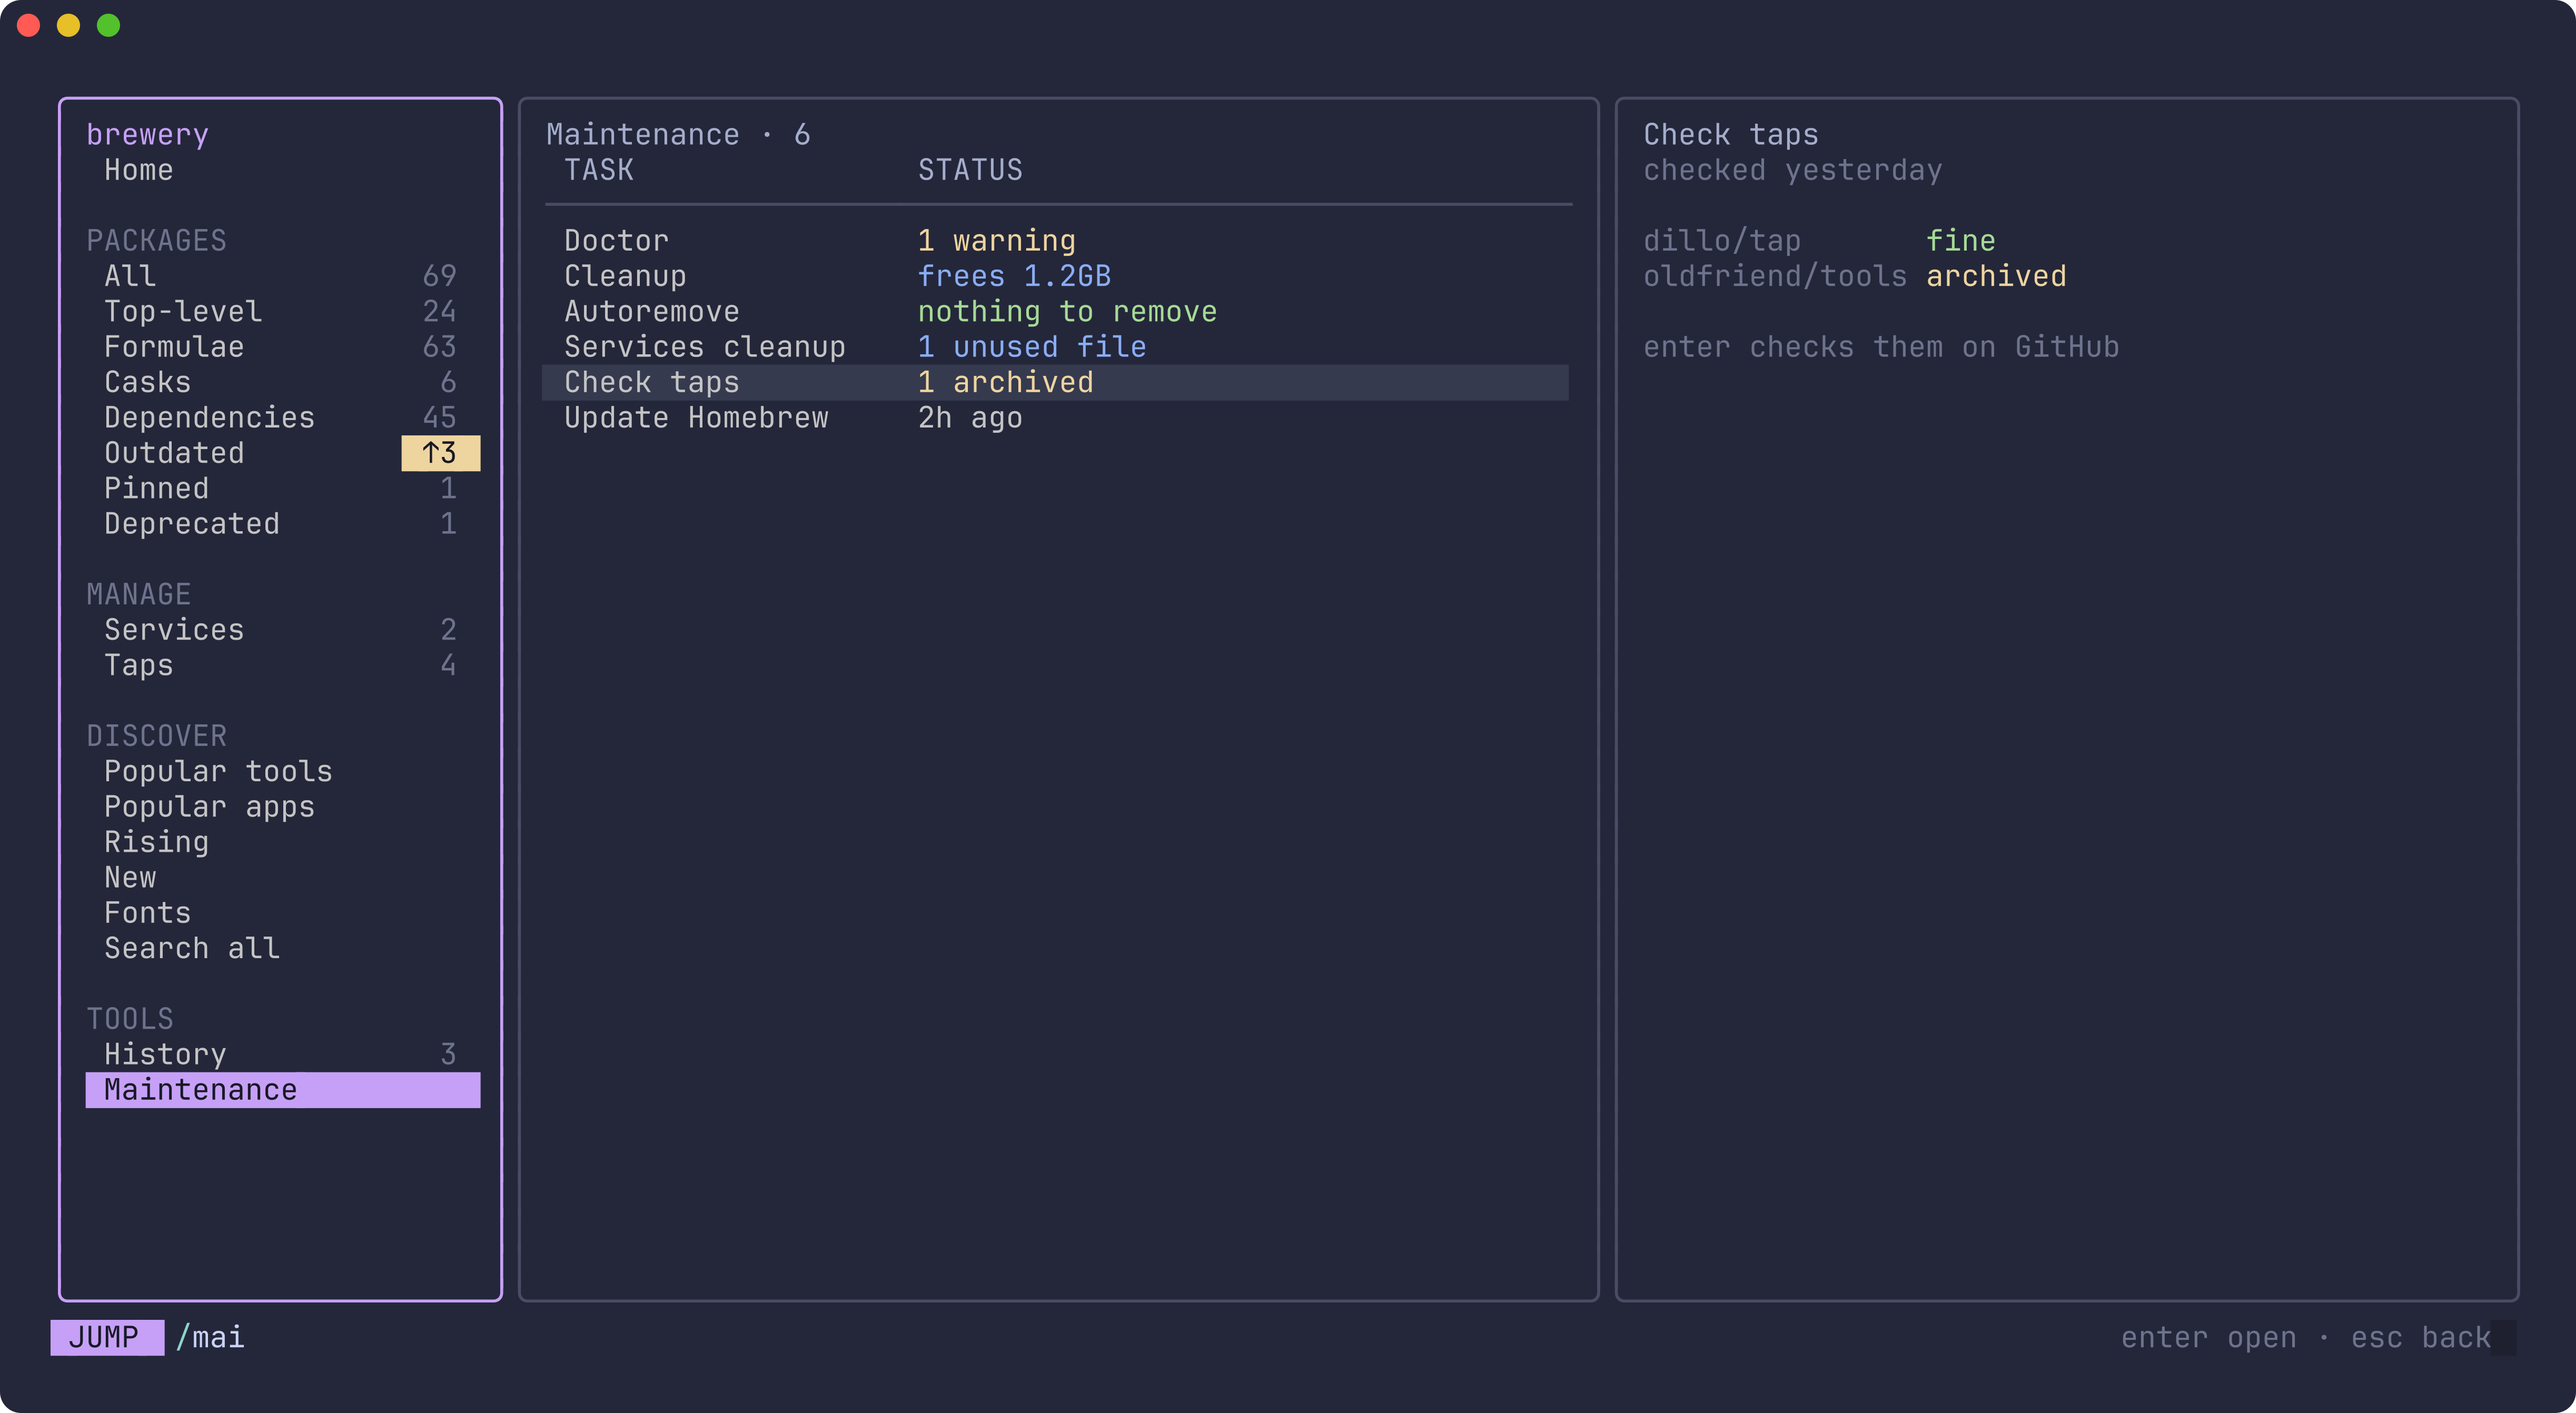
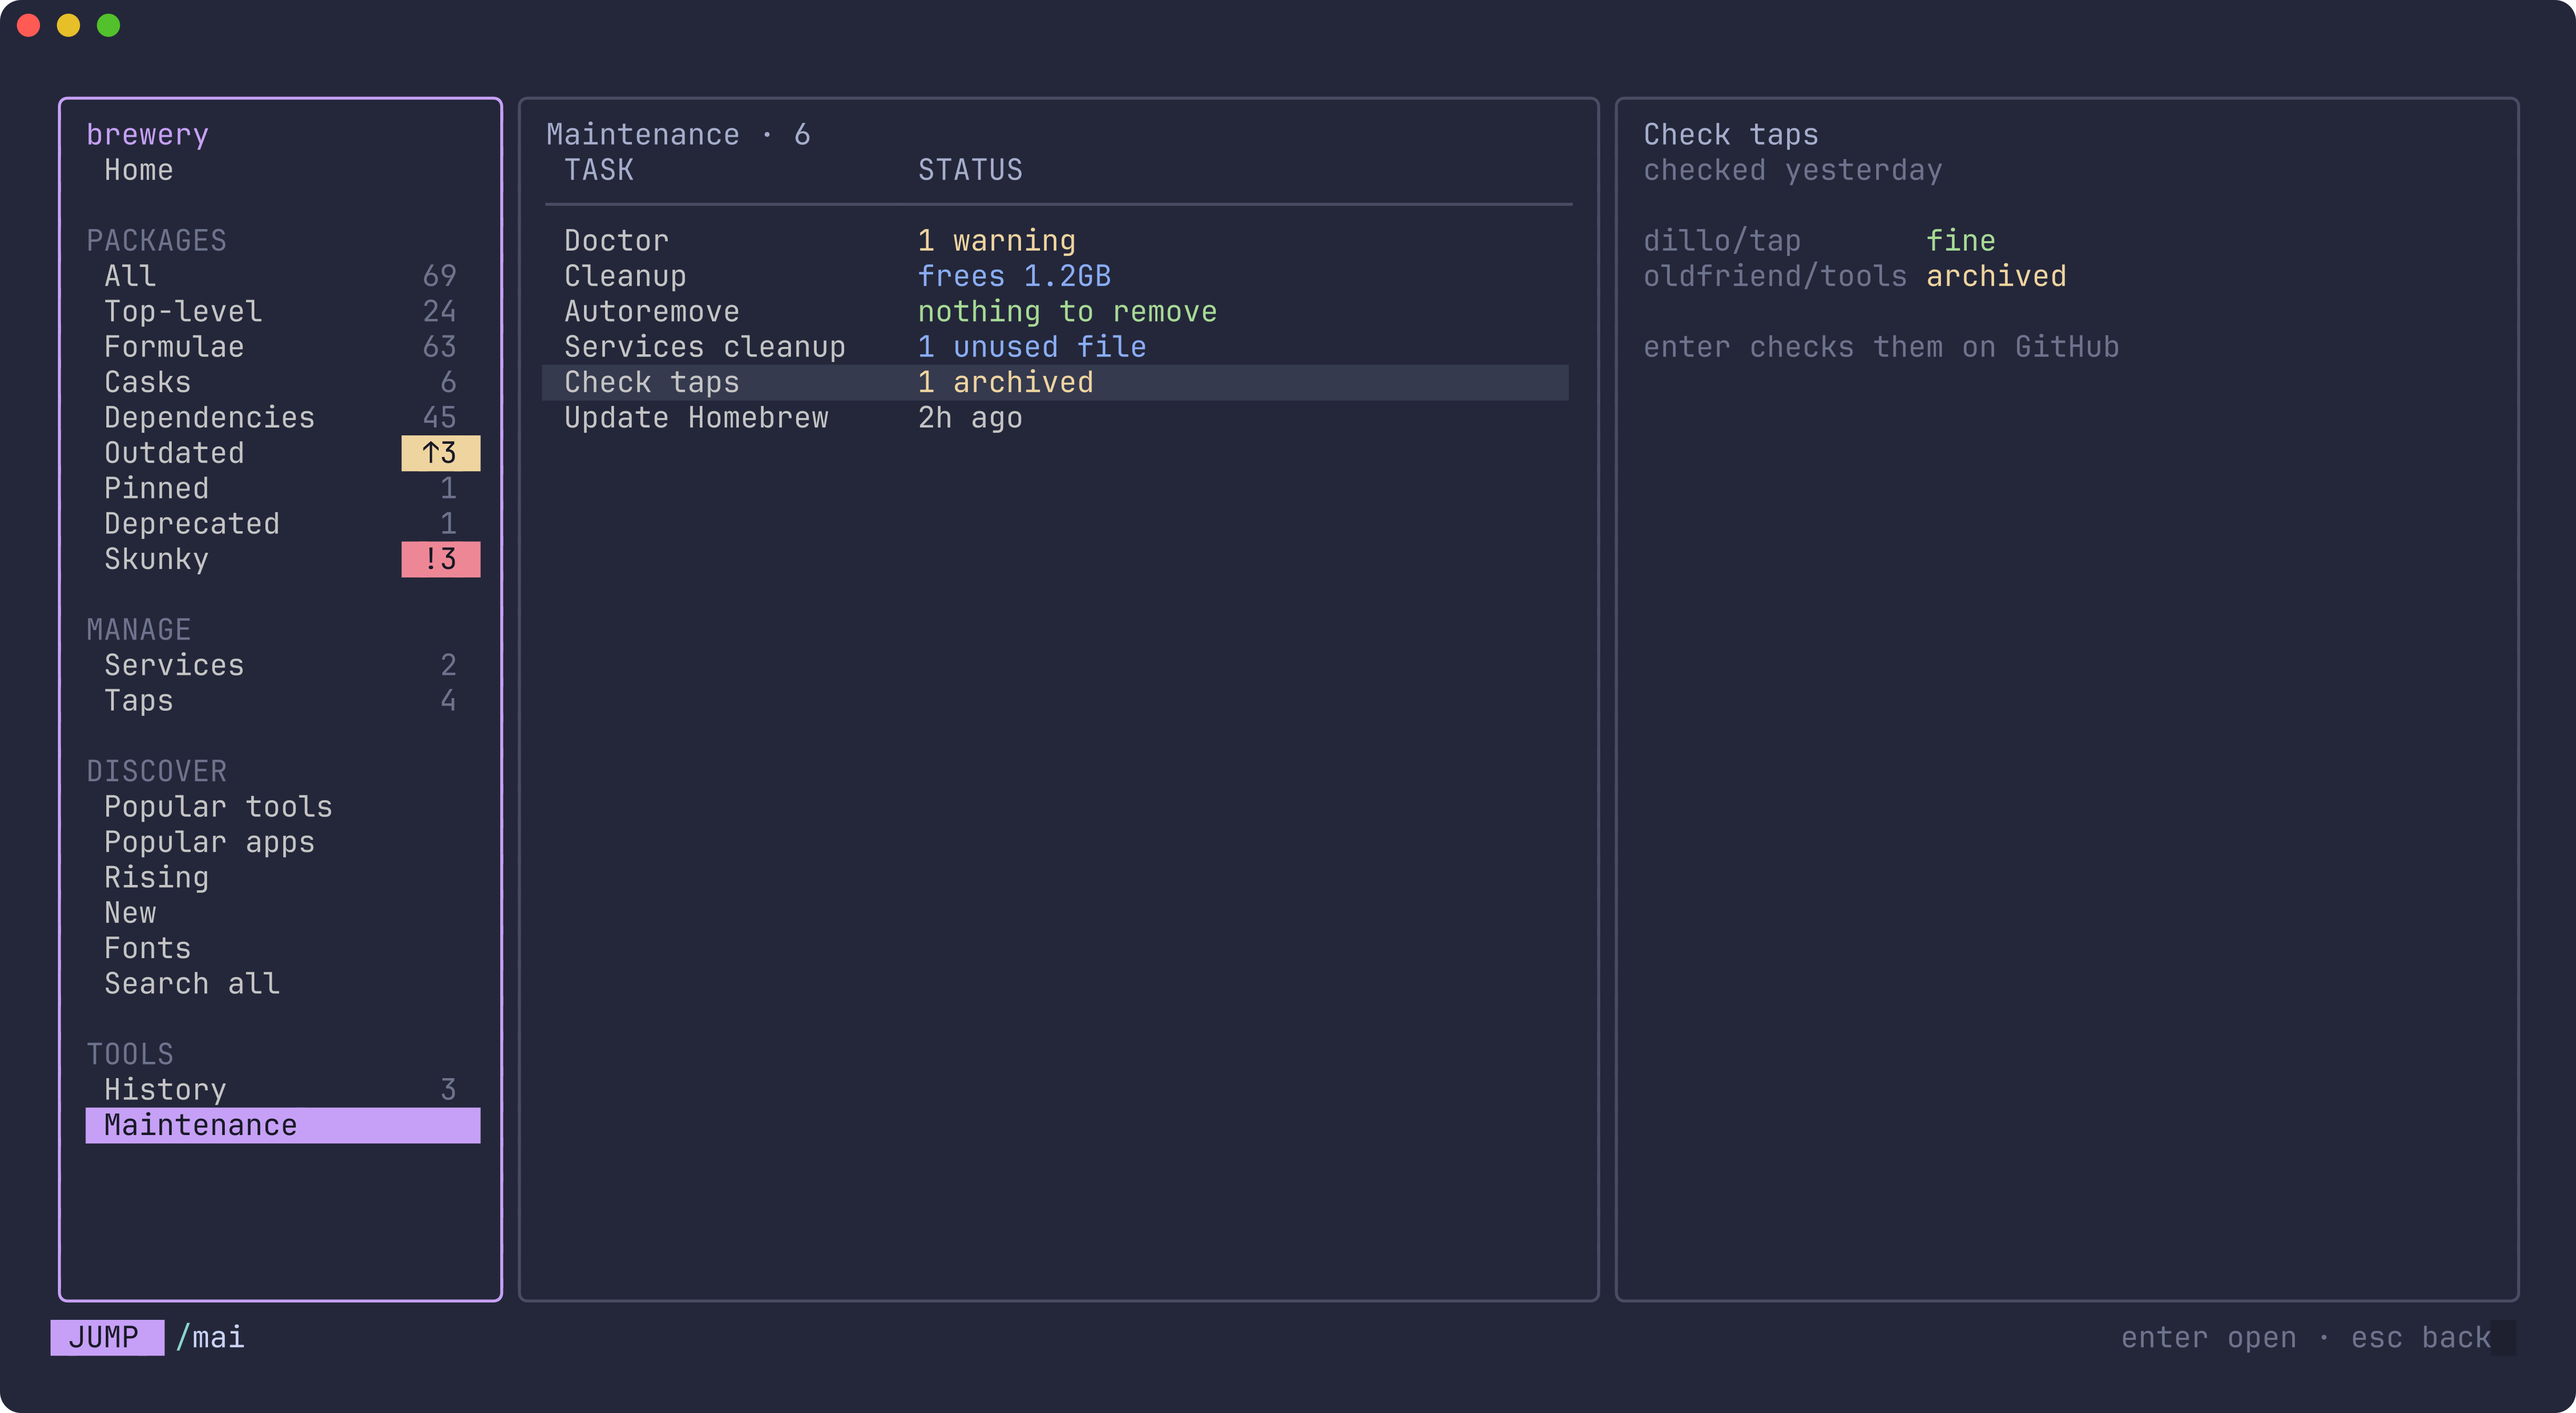
docs: a screenshot of Skunky, and every screenshot shows its sidebar entry

Changed region(s): [[0.0311, 0.3711, 0.1864, 0.8349], [0.1554, 0.3711, 0.1864, 0.4329]]

diff --git a/internal/ui/screenshots_test.go b/internal/ui/screenshots_test.go
@@ -99,6 +99,22 @@ func demoSnapshot(t *testing.T) state.Snapshot {
 		{Tap: "oldfriend/tools", State: github.Archived},
 	}
 	s.TapsCheckedAt = demoNow.Add(-26 * time.Hour)
+	// What brew vulns found this morning, made up like the rest: gh is
+	// outdated, so its details offer the upgrade.
+	s.Vulns = &brew.VulnScan{Checked: 51, Skipped: []string{"ca-certificates", "gettext", "ncurses"}, Findings: []brew.VulnFinding{
+		{Formula: "gh", Version: "2.101.0", Vulns: []brew.Vuln{
+			{ID: "OSV-2026-4521", Severity: "HIGH", Summary: "Token written to a debug log", Fixed: []string{"2.102.0"}},
+			{ID: "OSV-2026-4388", Severity: "MEDIUM", Summary: "Unchecked redirect in browse", Fixed: []string{"2.102.0"}},
+		}},
+		{Formula: "libssh2", Version: "1.11.1", Vulns: []brew.Vuln{
+			{ID: "OSV-2026-3170", Severity: "MEDIUM", Summary: "Out-of-bounds read in packet handling",
+				Fixed: []string{"5d2f0c4e8a1b3c7d9e0f2a4b6c8d0e1f3a5b7c9d"}},
+		}},
+		{Formula: "c-ares", Version: "1.34.8", Vulns: []brew.Vuln{
+			{ID: "OSV-2026-2904", Severity: "LOW", Summary: "Read past the end of a short reply"},
+		}},
+	}}
+	s.VulnsAt = demoNow.Add(-5 * time.Hour)
 	s.FetchedAt, s.DataAt = demoNow.Add(-2*time.Minute), demoNow.Add(-3*time.Hour)
 	return s
 }
@@ -117,7 +133,7 @@ func (d demoSource) Cleanup(context.Context) (brew.Cleanup, error) { return d.sn
 func (d demoSource) Sizes(context.Context, []brew.Package) (map[string]int64, error) {
 	return d.snap.Sizes, nil
 }
-func (d demoSource) Vulns(context.Context) (brew.VulnScan, error)   { return brew.VulnScan{}, nil }
+func (d demoSource) Vulns(context.Context) (brew.VulnScan, error)   { return *d.snap.Vulns, nil }
 func (d demoSource) DataUpdated(context.Context) (time.Time, error) { return d.snap.DataAt, nil }
 
 // demoStats serves Homebrew's analytics as of the demo machine's day.
@@ -248,6 +264,10 @@ func TestScreenshots(t *testing.T) {
 	selectInstalled(t, a, "python@3.13")
 	show(t, a, "Deprecated")
 	shoot(t, a, "deprecated")
+
+	selectInstalled(t, a, "gh") // the worst, and outdated
+	show(t, a, "Skunky")
+	shoot(t, a, "skunky")
 
 	show(t, a, "Services") // postgresql@16, with its log
 	keys(t, a, "l")

diff --git a/README.md b/README.md
@@ -132,6 +132,11 @@ Packages on their way out, with brew's reason and what to install instead.
 
 ![The Deprecated view: python@3.13, a versioned formula that will be disabled on 2027-04-01, with python@3.15 as its replacement](docs/screenshots/deprecated.png)
 
+Formulae with known vulnerabilities, worst first, with each finding and
+what fixes it.
+
+![The Skunky view: gh with a HIGH and a MEDIUM finding, both fixed in 2.102.0, libssh2 at MEDIUM and c-ares at LOW, with how many formulae the last scan checked](docs/screenshots/skunky.png)
+
 Services, with the end of each one's log.
 
 ![Services: postgresql@16 started, with its command, file and the end of its log in the details](docs/screenshots/services.png)
@@ -176,7 +181,7 @@ its actions.
 | `1`–`5` | Home, Packages, Manage, Discover, Tools |
 | `[` `]` | previous or next sidebar entry |
 | `:` | run any brew command; `:jobs` opens History |
-| `r` | refresh |
+| `r` | refresh; on Skunky, also scan for vulnerabilities now |
 | `U` | `brew update` |
 | `c` | clean up |
 | `o` | show or hide brew's output |
